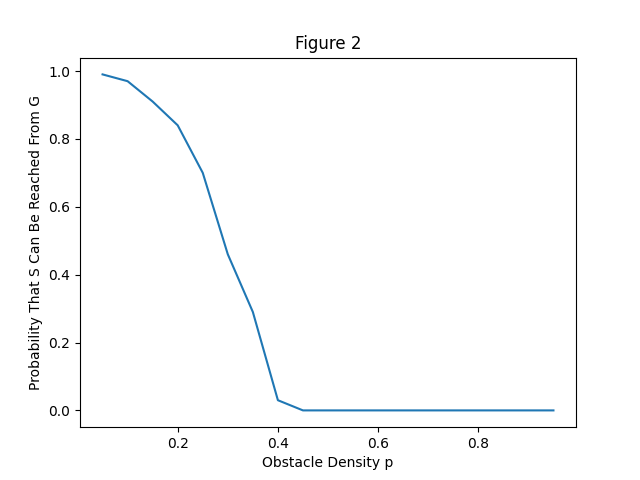
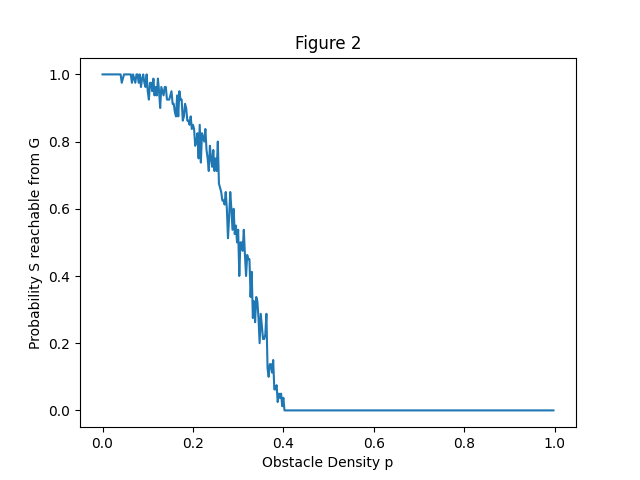
Multithread trial execution

diff --git a/main.py b/main.py
@@ -1,6 +1,8 @@
 from util import *
 import matplotlib.pyplot as plt
-
+import concurrent.futures
+import time
+import random
 
 def problem1():
     maze = generate_maze(5, .2)
@@ -8,28 +10,36 @@ def problem1():
 
 
 def problem2():
+    exec = concurrent.futures.ProcessPoolExecutor()
     dim = 1000
-    trials_per_p = 100
-    p_increment = .05
-    p = p_increment
-    x = []
-    y = []
-    while p < 1:
-        x.append(p)
-        sum = 0.0
-        for i in range(trials_per_p):
-            print('p = ' + str(p) + ', trial = ' + str(i + 1))
-            maze = generate_maze(dim, p)
-            sum += 1 if check_reachable(maze, (0, 0), (dim - 1, dim - 1)) else 0
-        y.append(sum / trials_per_p)
-        p += p_increment
+    trials_per_p = 160
+    p_steps = 800
+
+    t = time.time()
+
+    x = [p/p_steps for p in range(p_steps)]
+    y = [0 for _ in range(p_steps)]
+    futures = {exec.submit(p2_trial, dim, p/p_steps) : p/p_steps for _ in range(trials_per_p) for p in range(p_steps)}
+    for f in concurrent.futures.as_completed(futures):
+        if f.result():
+            y[round(futures[f]*p_steps)] += 1
+    y = [i/trials_per_p for i in y]
+
+    print(time.time() - t)
+
     plt.plot(x, y)
     plt.title('Figure 2')
     plt.xlabel('Obstacle Density p')
-    plt.ylabel('Probability That S Can Be Reached From G')
+    plt.ylabel('Probability S reachable from G')
     plt.savefig('figure2.png')
     plt.show()
 
+def p2_trial(dim, p):
+    maze = generate_maze(dim, p)
+    return check_reachable(maze, (0, 0), (dim - 1, dim - 1))
 
 # problem1()
-problem2()
+if __name__ == "__main__":
+    t = time.time()
+    problem2()
+    print (time.time() - t)
